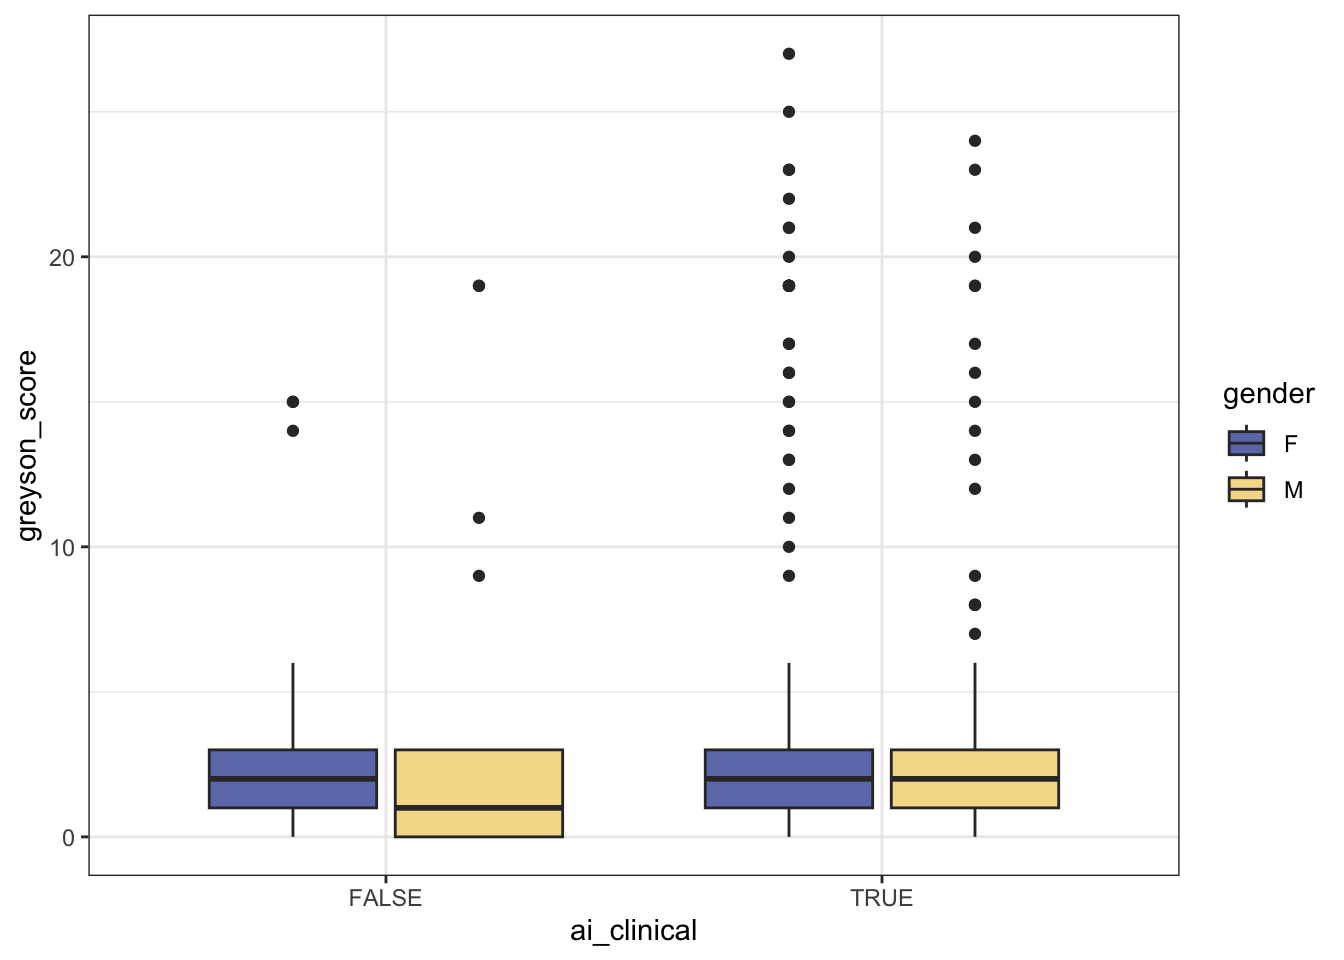
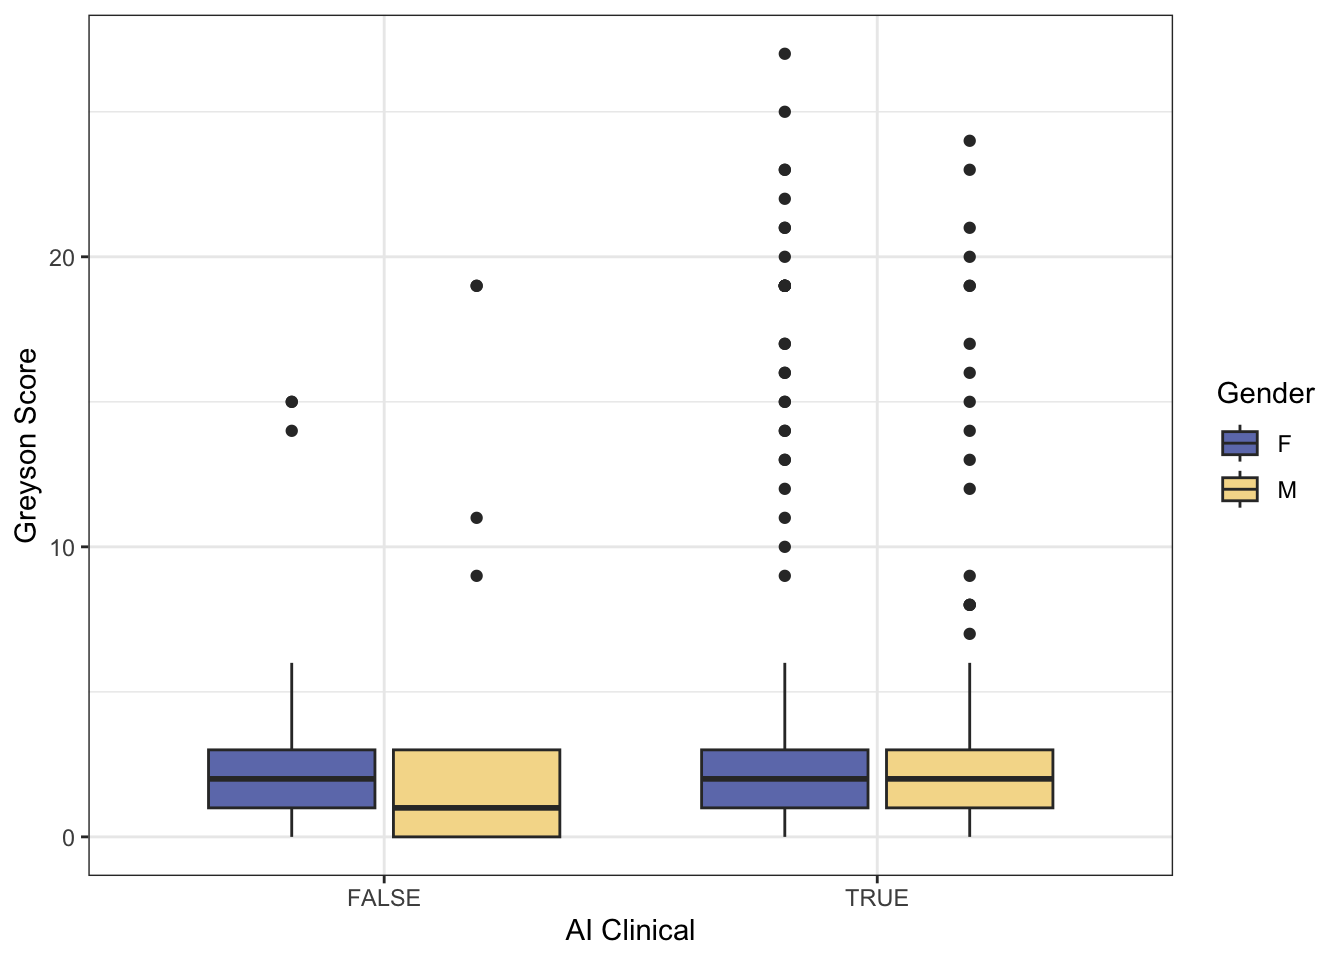
W8 Homework Updates

diff --git a/Week_8/scripts/penguins_good_v_bad.html b/Week_8/scripts/penguins_good_v_bad.html
@@ -230,33 +230,46 @@ $ tail.length        &lt;dbl&gt; 130.0, 107.5, 46.0, 80.0, 70.0, 58.0, 77.0, 139
 <section id="good-plot" class="level2">
 <h2 class="anchored" data-anchor-id="good-plot">Good Plot</h2>
 <div class="cell">
+<details class="code-fold">
+<summary>Show code</summary>
+<div class="code-copy-outer-scaffold"><div class="sourceCode cell-code" id="cb6"><pre class="sourceCode r code-with-copy"><code class="sourceCode r"><span id="cb6-1"><a href="#cb6-1" aria-hidden="true" tabindex="-1"></a>good<span class="ot">&lt;-</span> <span class="fu">ggplot</span>(<span class="at">data=</span>many_penguins,</span>
+<span id="cb6-2"><a href="#cb6-2" aria-hidden="true" tabindex="-1"></a>       <span class="at">mapping=</span><span class="fu">aes</span>(<span class="at">x=</span>genus,<span class="at">y=</span>wing.length, <span class="at">color=</span>genus))<span class="sc">+</span></span>
+<span id="cb6-3"><a href="#cb6-3" aria-hidden="true" tabindex="-1"></a>  <span class="fu">labs</span>(<span class="at">title=</span><span class="st">"Penguin Wing Length among Genus"</span>, <span class="at">x=</span><span class="st">"Genus"</span>,<span class="at">y=</span><span class="st">"Wing Length (mm)"</span>)<span class="sc">+</span></span>
+<span id="cb6-4"><a href="#cb6-4" aria-hidden="true" tabindex="-1"></a>  <span class="fu">geom_boxplot</span>()<span class="sc">+</span></span>
+<span id="cb6-5"><a href="#cb6-5" aria-hidden="true" tabindex="-1"></a>  <span class="fu">guides</span>(<span class="at">color=</span><span class="st">"none"</span>)<span class="sc">+</span></span>
+<span id="cb6-6"><a href="#cb6-6" aria-hidden="true" tabindex="-1"></a>  <span class="fu">theme_bw</span>()</span>
+<span id="cb6-7"><a href="#cb6-7" aria-hidden="true" tabindex="-1"></a></span>
+<span id="cb6-8"><a href="#cb6-8" aria-hidden="true" tabindex="-1"></a></span>
+<span id="cb6-9"><a href="#cb6-9" aria-hidden="true" tabindex="-1"></a><span class="fu">ggplotly</span>(good) <span class="co">#converts ggplot to plotly</span></span></code></pre></div><button title="Copy to Clipboard" class="code-copy-button"><i class="bi"></i></button></div>
+</details>
 <div id="fig-penguins-pretty" class="cell-output-display quarto-float quarto-figure quarto-figure-center anchored">
 <figure class="quarto-float quarto-float-fig figure">
 <div aria-describedby="fig-penguins-pretty-caption-0ceaefa1-69ba-4598-a22c-09a6ac19f8ca">
-<div class="plotly html-widget html-fill-item" id="htmlwidget-329bc27f6d86e571c99a" style="width:100%;height:464px;"></div>
-<script type="application/json" data-for="htmlwidget-329bc27f6d86e571c99a">{"x":{"data":[{"x":[130,107.5,46,80],"y":[182,180,164,174],"mode":"markers","showlegend":true,"marker":{"color":"red","size":8,"line":{"color":"rgba(31,119,180,1)"}},"name":"Aptenodytes","type":"scatter","error_y":{"color":"rgba(31,119,180,1)"},"error_x":{"color":"rgba(31,119,180,1)"},"line":{"color":"rgba(31,119,180,1)"},"xaxis":"x","yaxis":"y","frame":null},{"x":[46,80,107.5,130],"y":[164,174,180,182],"mode":"lines+markers","showlegend":false,"marker":{"color":"red","size":8,"line":{"color":"rgba(255,127,14,1)"}},"name":"Aptenodytes","type":"scatter","method":"lm","error_y":{"color":"rgba(255,127,14,1)"},"error_x":{"color":"rgba(255,127,14,1)"},"line":{"color":"rgba(255,127,14,1)"},"xaxis":"x","yaxis":"y","frame":null},{"x":[70,58,77],"y":[108,104,100],"mode":"markers","showlegend":true,"marker":{"color":"purple","size":8,"line":{"color":"rgba(44,160,44,1)"}},"name":"Eudyptes","type":"scatter","error_y":{"color":"rgba(44,160,44,1)"},"error_x":{"color":"rgba(44,160,44,1)"},"line":{"color":"rgba(44,160,44,1)"},"xaxis":"x2","yaxis":"y2","frame":null},{"x":[58,70,77],"y":[104,108,100],"mode":"lines+markers","showlegend":false,"marker":{"color":"purple","size":8,"line":{"color":"rgba(214,39,40,1)"}},"name":"Eudyptes","type":"scatter","method":"lm","error_y":{"color":"rgba(214,39,40,1)"},"error_x":{"color":"rgba(214,39,40,1)"},"line":{"color":"rgba(214,39,40,1)"},"xaxis":"x2","yaxis":"y2","frame":null},{"x":[139,115,135,101,118,112],"y":[96,98,101.5,97.700000000000003,128.5,121.3],"mode":"markers","showlegend":true,"marker":{"color":"blue","size":8,"line":{"color":"rgba(148,103,189,1)"}},"name":"Pygoscelis","type":"scatter","error_y":{"color":"rgba(148,103,189,1)"},"error_x":{"color":"rgba(148,103,189,1)"},"line":{"color":"rgba(148,103,189,1)"},"xaxis":"x3","yaxis":"y3","frame":null},{"x":[101,112,115,118,135,139],"y":[97.700000000000003,121.3,98,128.5,101.5,96],"mode":"lines+markers","showlegend":false,"marker":{"color":"blue","size":8,"line":{"color":"rgba(140,86,75,1)"}},"name":"Pygoscelis","type":"scatter","method":"lm","error_y":{"color":"rgba(140,86,75,1)"},"error_x":{"color":"rgba(140,86,75,1)"},"line":{"color":"rgba(140,86,75,1)"},"xaxis":"x3","yaxis":"y3","frame":null}],"layout":{"xaxis":{"domain":[0,0.3133333333333333],"automargin":true,"title":"","anchor":"y"},"xaxis2":{"domain":[0.35333333333333333,0.64666666666666661],"automargin":true,"title":"Tail Length (mm)","anchor":"y2"},"xaxis3":{"domain":[0.68666666666666665,1],"automargin":true,"title":"","anchor":"y3"},"yaxis3":{"domain":[0,1],"automargin":true,"title":"","anchor":"x3"},"yaxis2":{"domain":[0,1],"automargin":true,"title":"","anchor":"x2"},"yaxis":{"domain":[0,1],"automargin":true,"title":"Wing Length (mm)","anchor":"x"},"annotations":[],"shapes":[],"images":[],"margin":{"b":40,"l":60,"t":25,"r":10},"title":{"text":"Female Penguins<br><sup>Tail Length vs Wing Length<sup>"},"hovermode":"closest","showlegend":true,"legend":{"title":{"text":"Genus"}}},"attrs":{"ce194e9f15e3":{"x":{},"y":{},"mode":"markers","showlegend":true,"marker":{"size":8,"color":"red"},"name":"Aptenodytes","alpha_stroke":1,"sizes":[10,100],"spans":[1,20],"type":"scatter"},"ce194e9f15e3.1":{"x":{},"y":{},"mode":"lines","showlegend":false,"marker":{"size":8,"color":"red"},"name":"Aptenodytes","alpha_stroke":1,"sizes":[10,100],"spans":[1,20],"type":"scatter","method":"lm","inherit":true},"ce192e561268":{"x":{},"y":{},"mode":"markers","showlegend":true,"marker":{"size":8,"color":"purple"},"name":"Eudyptes","alpha_stroke":1,"sizes":[10,100],"spans":[1,20],"type":"scatter"},"ce192e561268.1":{"x":{},"y":{},"mode":"lines","showlegend":false,"marker":{"size":8,"color":"purple"},"name":"Eudyptes","alpha_stroke":1,"sizes":[10,100],"spans":[1,20],"type":"scatter","method":"lm","inherit":true},"ce1914d2819c":{"x":{},"y":{},"mode":"markers","showlegend":true,"marker":{"size":8,"color":"blue"},"name":"Pygoscelis","alpha_stroke":1,"sizes":[10,100],"spans":[1,20],"type":"scatter"},"ce1914d2819c.1":{"x":{},"y":{},"mode":"lines","showlegend":false,"marker":{"size":8,"color":"blue"},"name":"Pygoscelis","alpha_stroke":1,"sizes":[10,100],"spans":[1,20],"type":"scatter","method":"lm","inherit":true}},"source":"A","config":{"modeBarButtonsToAdd":["hoverclosest","hovercompare"],"showSendToCloud":false},"highlight":{"on":"plotly_click","persistent":false,"dynamic":false,"selectize":false,"opacityDim":0.20000000000000001,"selected":{"opacity":1},"debounce":0},"subplot":true,"shinyEvents":["plotly_hover","plotly_click","plotly_selected","plotly_relayout","plotly_brushed","plotly_brushing","plotly_clickannotation","plotly_doubleclick","plotly_deselect","plotly_afterplot","plotly_sunburstclick"],"base_url":"https://plot.ly"},"evals":[],"jsHooks":[]}</script>
+<div class="plotly html-widget html-fill-item" id="htmlwidget-e190710b6a4867cd8f47" style="width:100%;height:464px;"></div>
+<script type="application/json" data-for="htmlwidget-e190710b6a4867cd8f47">{"x":{"data":[{"x":[3,3,3,3,3,3,3],"y":[68,68,66,67,null,null,null],"hoverinfo":"y","type":"box","fillcolor":"rgba(255,255,255,1)","marker":{"opacity":null,"outliercolor":"rgba(0,0,0,1)","line":{"width":1.8897637795275593,"color":"rgba(0,0,0,1)"},"size":5.6692913385826778},"line":{"color":"rgba(0,186,56,1)","width":1.8897637795275593},"showlegend":false,"xaxis":"x","yaxis":"y","frame":null},{"x":[4,4,4,4],"y":[124,150,120,119],"hoverinfo":"y","type":"box","fillcolor":"rgba(255,255,255,1)","marker":{"opacity":null,"outliercolor":"rgba(0,0,0,1)","line":{"width":1.8897637795275593,"color":"rgba(0,0,0,1)"},"size":5.6692913385826778},"line":{"color":"rgba(0,191,196,1)","width":1.8897637795275593},"showlegend":false,"xaxis":"x","yaxis":"y","frame":null},{"x":[5,5,5,5,5,5,5,5,5,5,5,5,5,5,5,5,5],"y":[86,96.299999999999997,96,98,96.400000000000006,null,null,null,null,104.8,101.5,97.700000000000003,98,129,128.5,125.5,121.3],"hoverinfo":"y","type":"box","fillcolor":"rgba(255,255,255,1)","marker":{"opacity":null,"outliercolor":"rgba(0,0,0,1)","line":{"width":1.8897637795275593,"color":"rgba(0,0,0,1)"},"size":5.6692913385826778},"line":{"color":"rgba(97,156,255,1)","width":1.8897637795275593},"showlegend":false,"xaxis":"x","yaxis":"y","frame":null},{"x":[2,2,2,2,2,2,2,2,2,2,2,2,2,2,2,2,2,2,2,2,2,2,2,2,2,2,2,2,2,2,2,2,2,2,2,2],"y":[98,101,108,89,97,100,96,null,94,null,122,116,114,114,null,100,105,104,100,null,91.299999999999997,180,170,180,94,100,105,92,122,125,117,120,107.2,113.7,113.40000000000001,111],"hoverinfo":"y","type":"box","fillcolor":"rgba(255,255,255,1)","marker":{"opacity":null,"outliercolor":"rgba(0,0,0,1)","line":{"width":1.8897637795275593,"color":"rgba(0,0,0,1)"},"size":5.6692913385826778},"line":{"color":"rgba(183,159,0,1)","width":1.8897637795275593},"showlegend":false,"xaxis":"x","yaxis":"y","frame":null},{"x":[6,6,6,6,6,6,6,6,6,6,6,6,6,6,6,6,6,6,6],"y":[null,98,95,101,100,null,113,98,105,105,108,105,109,111,115,80,80,83,88],"hoverinfo":"y","type":"box","fillcolor":"rgba(255,255,255,1)","marker":{"opacity":null,"outliercolor":"rgba(0,0,0,1)","line":{"width":1.8897637795275593,"color":"rgba(0,0,0,1)"},"size":5.6692913385826778},"line":{"color":"rgba(245,100,227,1)","width":1.8897637795275593},"showlegend":false,"xaxis":"x","yaxis":"y","frame":null},{"x":[1,1,1,1,1,1,1,1,1,1],"y":[170,185,180,182,180,166,164,165,174,null],"hoverinfo":"y","type":"box","fillcolor":"rgba(255,255,255,1)","marker":{"opacity":null,"outliercolor":"rgba(0,0,0,1)","line":{"width":1.8897637795275593,"color":"rgba(0,0,0,1)"},"size":5.6692913385826778},"line":{"color":"rgba(248,118,109,1)","width":1.8897637795275593},"showlegend":false,"xaxis":"x","yaxis":"y","frame":null}],"layout":{"margin":{"t":40.840182648401829,"r":7.3059360730593621,"b":37.260273972602747,"l":43.105022831050235},"plot_bgcolor":"rgba(255,255,255,1)","paper_bgcolor":"rgba(255,255,255,1)","font":{"color":"rgba(0,0,0,1)","family":"","size":14.611872146118724},"title":{"text":"Penguin Wing Length among Genus","font":{"color":"rgba(0,0,0,1)","family":"","size":17.534246575342465},"x":0,"xref":"paper"},"xaxis":{"domain":[0,1],"automargin":true,"type":"linear","autorange":false,"range":[0.40000000000000002,6.5999999999999996],"tickmode":"array","ticktext":["Aptenodytes","Eudyptes","Eudyptula","Megadyptes","Pygoscelis","Spheniscus"],"tickvals":[1,2,3,3.9999999999999996,5,6],"categoryorder":"array","categoryarray":["Aptenodytes","Eudyptes","Eudyptula","Megadyptes","Pygoscelis","Spheniscus"],"nticks":null,"ticks":"outside","tickcolor":"rgba(51,51,51,1)","ticklen":3.6529680365296811,"tickwidth":0.66417600664176002,"showticklabels":true,"tickfont":{"color":"rgba(77,77,77,1)","family":"","size":11.68949771689498},"tickangle":-0,"showline":false,"linecolor":null,"linewidth":0,"showgrid":true,"gridcolor":"rgba(235,235,235,1)","gridwidth":0.66417600664176002,"zeroline":false,"anchor":"y","title":{"text":"Genus","font":{"color":"rgba(0,0,0,1)","family":"","size":14.611872146118724}},"hoverformat":".2f"},"yaxis":{"domain":[0,1],"automargin":true,"type":"linear","autorange":false,"range":[60.049999999999997,190.94999999999999],"tickmode":"array","ticktext":["100","150"],"tickvals":[100,150],"categoryorder":"array","categoryarray":["100","150"],"nticks":null,"ticks":"outside","tickcolor":"rgba(51,51,51,1)","ticklen":3.6529680365296811,"tickwidth":0.66417600664176002,"showticklabels":true,"tickfont":{"color":"rgba(77,77,77,1)","family":"","size":11.68949771689498},"tickangle":-0,"showline":false,"linecolor":null,"linewidth":0,"showgrid":true,"gridcolor":"rgba(235,235,235,1)","gridwidth":0.66417600664176002,"zeroline":false,"anchor":"x","title":{"text":"Wing Length (mm)","font":{"color":"rgba(0,0,0,1)","family":"","size":14.611872146118724}},"hoverformat":".2f"},"shapes":[{"type":"rect","fillcolor":"rgba(255,255,255,1)","line":{"color":"rgba(51,51,51,1)","width":0.66417600664176002,"linetype":"solid"},"yref":"paper","xref":"paper","layer":"below","x0":0,"x1":1,"y0":0,"y1":1}],"showlegend":false,"legend":{"bgcolor":"rgba(255,255,255,1)","bordercolor":"transparent","borderwidth":1.8897637795275593,"font":{"color":"rgba(0,0,0,1)","family":"","size":11.68949771689498},"title":{"text":"","font":{"color":"rgba(0,0,0,1)","family":"","size":14.611872146118724}}},"hovermode":"closest","barmode":"relative"},"config":{"doubleClick":"reset","modeBarButtonsToAdd":["hoverclosest","hovercompare"],"showSendToCloud":false},"source":"A","attrs":{"e2cd371a1dc":{"x":{},"y":{},"colour":{},"type":"box"}},"cur_data":"e2cd371a1dc","visdat":{"e2cd371a1dc":["function (y) ","x"]},"highlight":{"on":"plotly_click","persistent":false,"dynamic":false,"selectize":false,"opacityDim":0.20000000000000001,"selected":{"opacity":1},"debounce":0},"shinyEvents":["plotly_hover","plotly_click","plotly_selected","plotly_relayout","plotly_brushed","plotly_brushing","plotly_clickannotation","plotly_doubleclick","plotly_deselect","plotly_afterplot","plotly_sunburstclick"],"base_url":"https://plot.ly"},"evals":[],"jsHooks":[]}</script>
 </div>
 <figcaption class="quarto-float-caption-bottom quarto-float-caption quarto-float-fig" id="fig-penguins-pretty-caption-0ceaefa1-69ba-4598-a22c-09a6ac19f8ca">
-Figure&nbsp;1: Correlation Between Wing and Tail Length in Female Penguins
+Figure&nbsp;1: Penguin Wing Length among Genus
 </figcaption>
 </figure>
 </div>
+<details class="code-fold">
+<summary>Show code</summary>
+<div class="code-copy-outer-scaffold"><div class="sourceCode cell-code" id="cb7"><pre class="sourceCode r code-with-copy"><code class="sourceCode r"><span id="cb7-1"><a href="#cb7-1" aria-hidden="true" tabindex="-1"></a><span class="co"># couldn't figure out how to make a linear line like geom_smooth</span></span></code></pre></div><button title="Copy to Clipboard" class="code-copy-button"><i class="bi"></i></button></div>
+</details>
 </div>
-<p>The wing length and tail length among the female penguins within the three genus (Aptenodytes, Eudyptes, and Pygoscelis) are represented in <a href="#fig-penguins-pretty" class="quarto-xref">Figure&nbsp;1</a>.</p>
+<p>The wing length among various penguin species within the six genus (Aptenodytes, Eudyptes, Eudyptula, Megadyptes, Pygoscelis, and Sphenicus) are represented in <a href="#fig-penguins-pretty" class="quarto-xref">Figure&nbsp;1</a>.</p>
 <section id="whats-good-about-this-plot" class="level3">
 <h3 class="anchored" data-anchor-id="whats-good-about-this-plot">What’s good about this plot?</h3>
 <section id="clarity" class="level4">
 <h4 class="anchored" data-anchor-id="clarity">Clarity</h4>
 <ul>
+<li>Presents raw data</li>
 <li>Not too many points, variables, or series</li>
-<li>Clear legend</li>
+<li>No legend</li>
 <li>Simple and organized
 <ul>
-<li>Emphasis put on three genus that are in separate plots</li>
-</ul></li>
-<li>Legend is clear and legible
-<ul>
-<li>Follow a logical order</li>
+<li>Emphasis put on the six genus, instead of each species</li>
 </ul></li>
 <li>No special symbols or lines</li>
 </ul>
@@ -277,6 +290,37 @@ Figure&nbsp;1: Correlation Between Wing and Tail Length in Female Penguins
 <section id="bad-plot" class="level2">
 <h2 class="anchored" data-anchor-id="bad-plot">Bad Plot</h2>
 <div class="cell">
+<details class="code-fold">
+<summary>Show code</summary>
+<div class="code-copy-outer-scaffold"><div class="sourceCode cell-code" id="cb8"><pre class="sourceCode r code-with-copy"><code class="sourceCode r"><span id="cb8-1"><a href="#cb8-1" aria-hidden="true" tabindex="-1"></a>bad_plot<span class="ot">&lt;-</span> <span class="fu">ggplot</span>(<span class="at">data=</span>many_penguins,</span>
+<span id="cb8-2"><a href="#cb8-2" aria-hidden="true" tabindex="-1"></a>                     <span class="fu">aes</span>(<span class="at">x=</span>tail.length,<span class="at">y=</span>wing.length,</span>
+<span id="cb8-3"><a href="#cb8-3" aria-hidden="true" tabindex="-1"></a>                     <span class="at">color=</span>species))<span class="sc">+</span> <span class="co"># species instead of genus makes it much more confusing</span></span>
+<span id="cb8-4"><a href="#cb8-4" aria-hidden="true" tabindex="-1"></a>   <span class="fu">labs</span>(<span class="at">title=</span><span class="st">"Penguins"</span>,<span class="at">x=</span><span class="st">"Tail Length (in)"</span>,</span>
+<span id="cb8-5"><a href="#cb8-5" aria-hidden="true" tabindex="-1"></a>       <span class="at">y=</span><span class="st">"Wing Length (in)"</span>)<span class="sc">+</span></span>
+<span id="cb8-6"><a href="#cb8-6" aria-hidden="true" tabindex="-1"></a>         <span class="fu">geom_boxplot</span>(<span class="at">size=</span><span class="dv">5</span>)<span class="sc">+</span> <span class="co">#make large un readable</span></span>
+<span id="cb8-7"><a href="#cb8-7" aria-hidden="true" tabindex="-1"></a>  <span class="fu">geom_smooth</span>(<span class="at">method=</span><span class="st">"lm"</span>, <span class="at">color=</span><span class="st">"blue"</span>)<span class="sc">+</span> <span class="co">#add line for fun, it tells us nothing</span></span>
+<span id="cb8-8"><a href="#cb8-8" aria-hidden="true" tabindex="-1"></a>  <span class="fu">theme</span>(</span>
+<span id="cb8-9"><a href="#cb8-9" aria-hidden="true" tabindex="-1"></a>    <span class="at">panel.background =</span> <span class="fu">element_rect</span>(<span class="at">fill =</span> <span class="st">"purple"</span>), <span class="co">#ugly backdrop</span></span>
+<span id="cb8-10"><a href="#cb8-10" aria-hidden="true" tabindex="-1"></a>    <span class="at">plot.background =</span> <span class="fu">element_rect</span>(<span class="at">fill =</span> <span class="st">"pink"</span>), <span class="co">#more ugly color</span></span>
+<span id="cb8-11"><a href="#cb8-11" aria-hidden="true" tabindex="-1"></a>    <span class="fu">element_text</span>(<span class="at">family =</span> <span class="st">"Apple Chancery"</span>), <span class="co">#fabulous font everywhere</span></span>
+<span id="cb8-12"><a href="#cb8-12" aria-hidden="true" tabindex="-1"></a>    <span class="at">plot.title =</span> <span class="fu">element_text</span>(</span>
+<span id="cb8-13"><a href="#cb8-13" aria-hidden="true" tabindex="-1"></a>      <span class="at">family =</span> <span class="st">"Apple Chancery"</span>, <span class="co">#had to type this out for each axis, is there an easier way?</span></span>
+<span id="cb8-14"><a href="#cb8-14" aria-hidden="true" tabindex="-1"></a>      <span class="at">size =</span> <span class="dv">30</span>,</span>
+<span id="cb8-15"><a href="#cb8-15" aria-hidden="true" tabindex="-1"></a>      <span class="at">face =</span> <span class="st">"bold"</span></span>
+<span id="cb8-16"><a href="#cb8-16" aria-hidden="true" tabindex="-1"></a>    ),</span>
+<span id="cb8-17"><a href="#cb8-17" aria-hidden="true" tabindex="-1"></a>    <span class="at">axis.title =</span> <span class="fu">element_text</span>(</span>
+<span id="cb8-18"><a href="#cb8-18" aria-hidden="true" tabindex="-1"></a>      <span class="at">family =</span> <span class="st">"Apple Chancery"</span>,</span>
+<span id="cb8-19"><a href="#cb8-19" aria-hidden="true" tabindex="-1"></a>      <span class="at">size =</span> <span class="dv">20</span> <span class="co">#unnecessarily big</span></span>
+<span id="cb8-20"><a href="#cb8-20" aria-hidden="true" tabindex="-1"></a>    ),</span>
+<span id="cb8-21"><a href="#cb8-21" aria-hidden="true" tabindex="-1"></a>    <span class="at">axis.text =</span> <span class="fu">element_text</span>(</span>
+<span id="cb8-22"><a href="#cb8-22" aria-hidden="true" tabindex="-1"></a>      <span class="at">family =</span> <span class="st">"Apple Chancery"</span>,</span>
+<span id="cb8-23"><a href="#cb8-23" aria-hidden="true" tabindex="-1"></a>      <span class="at">size =</span> <span class="dv">20</span></span>
+<span id="cb8-24"><a href="#cb8-24" aria-hidden="true" tabindex="-1"></a>    )</span>
+<span id="cb8-25"><a href="#cb8-25" aria-hidden="true" tabindex="-1"></a>  )</span>
+<span id="cb8-26"><a href="#cb8-26" aria-hidden="true" tabindex="-1"></a></span>
+<span id="cb8-27"><a href="#cb8-27" aria-hidden="true" tabindex="-1"></a>bad_plot</span>
+<span id="cb8-28"><a href="#cb8-28" aria-hidden="true" tabindex="-1"></a><span class="fu">ggsave</span>(<span class="fu">here</span>(<span class="st">"Week_8"</span>,<span class="st">"outputs"</span>,<span class="st">"bad_plot.png"</span>))</span></code></pre></div><button title="Copy to Clipboard" class="code-copy-button"><i class="bi"></i></button></div>
+</details>
 <div class="cell-output-display">
 <div id="fig-penguins_ugly" class="quarto-float quarto-figure quarto-figure-center anchored">
 <figure class="quarto-float quarto-float-fig figure">
@@ -310,7 +354,10 @@ Figure&nbsp;2: No Idea What’s Going on Here
 <ul>
 <li>Boxes are too large and close together</li>
 </ul></li>
-<li>The coloring is distracting and confusing *Grid color and species colors</li>
+<li>The coloring is distracting and confusing
+<ul>
+<li>Grid color and species colors</li>
+</ul></li>
 <li>Distracting and large font
 <ul>
 <li>Title font and legend font don’t match</li>

diff --git a/Week_8/scripts/W8_HW_functions.html b/Week_8/scripts/W8_HW_functions.html
@@ -243,7 +243,8 @@ pre > code.sourceCode > span > a:first-child::before { text-decoration: underlin
 <div class="cell">
 <details class="code-fold">
 <summary>Show code</summary>
-<div class="code-copy-outer-scaffold"><div class="sourceCode cell-code" id="cb9"><pre class="sourceCode r code-with-copy"><code class="sourceCode r"><span id="cb9-1"><a href="#cb9-1" aria-hidden="true" tabindex="-1"></a><span class="fu">nde_plot</span>(nde_experiences, <span class="at">x=</span>gender, <span class="at">y=</span>greyson_score, <span class="at">fill=</span>ai_aliens)</span></code></pre></div><button title="Copy to Clipboard" class="code-copy-button"><i class="bi"></i></button></div>
+<div class="code-copy-outer-scaffold"><div class="sourceCode cell-code" id="cb9"><pre class="sourceCode r code-with-copy"><code class="sourceCode r"><span id="cb9-1"><a href="#cb9-1" aria-hidden="true" tabindex="-1"></a><span class="fu">nde_plot</span>(nde_experiences, <span class="at">x=</span>gender, <span class="at">y=</span>greyson_score, <span class="at">fill=</span>ai_aliens)<span class="sc">+</span></span>
+<span id="cb9-2"><a href="#cb9-2" aria-hidden="true" tabindex="-1"></a>  <span class="fu">labs</span>(<span class="at">x=</span><span class="st">"Gender"</span>,<span class="at">y=</span><span class="st">"Greyson Score"</span>, <span class="at">fill=</span><span class="st">"AI Aliens"</span>)</span></code></pre></div><button title="Copy to Clipboard" class="code-copy-button"><i class="bi"></i></button></div>
 </details>
 <div class="cell-output-display">
 <div>
@@ -259,7 +260,8 @@ pre > code.sourceCode > span > a:first-child::before { text-decoration: underlin
 <div class="cell">
 <details class="code-fold">
 <summary>Show code</summary>
-<div class="code-copy-outer-scaffold"><div class="sourceCode cell-code" id="cb10"><pre class="sourceCode r code-with-copy"><code class="sourceCode r"><span id="cb10-1"><a href="#cb10-1" aria-hidden="true" tabindex="-1"></a><span class="fu">nde_plot</span>(nde_experiences, <span class="at">x=</span>ai_clinical, <span class="at">y=</span>greyson_score, <span class="at">fill=</span>gender)</span></code></pre></div><button title="Copy to Clipboard" class="code-copy-button"><i class="bi"></i></button></div>
+<div class="code-copy-outer-scaffold"><div class="sourceCode cell-code" id="cb10"><pre class="sourceCode r code-with-copy"><code class="sourceCode r"><span id="cb10-1"><a href="#cb10-1" aria-hidden="true" tabindex="-1"></a><span class="fu">nde_plot</span>(nde_experiences, <span class="at">x=</span>ai_clinical, <span class="at">y=</span>greyson_score, <span class="at">fill=</span>gender)<span class="sc">+</span></span>
+<span id="cb10-2"><a href="#cb10-2" aria-hidden="true" tabindex="-1"></a>  <span class="fu">labs</span>(<span class="at">x=</span><span class="st">"AI Clinical"</span>, <span class="at">y=</span><span class="st">"Greyson Score"</span>, <span class="at">fill=</span><span class="st">"Gender"</span>)</span></code></pre></div><button title="Copy to Clipboard" class="code-copy-button"><i class="bi"></i></button></div>
 </details>
 <div class="cell-output-display">
 <div>
